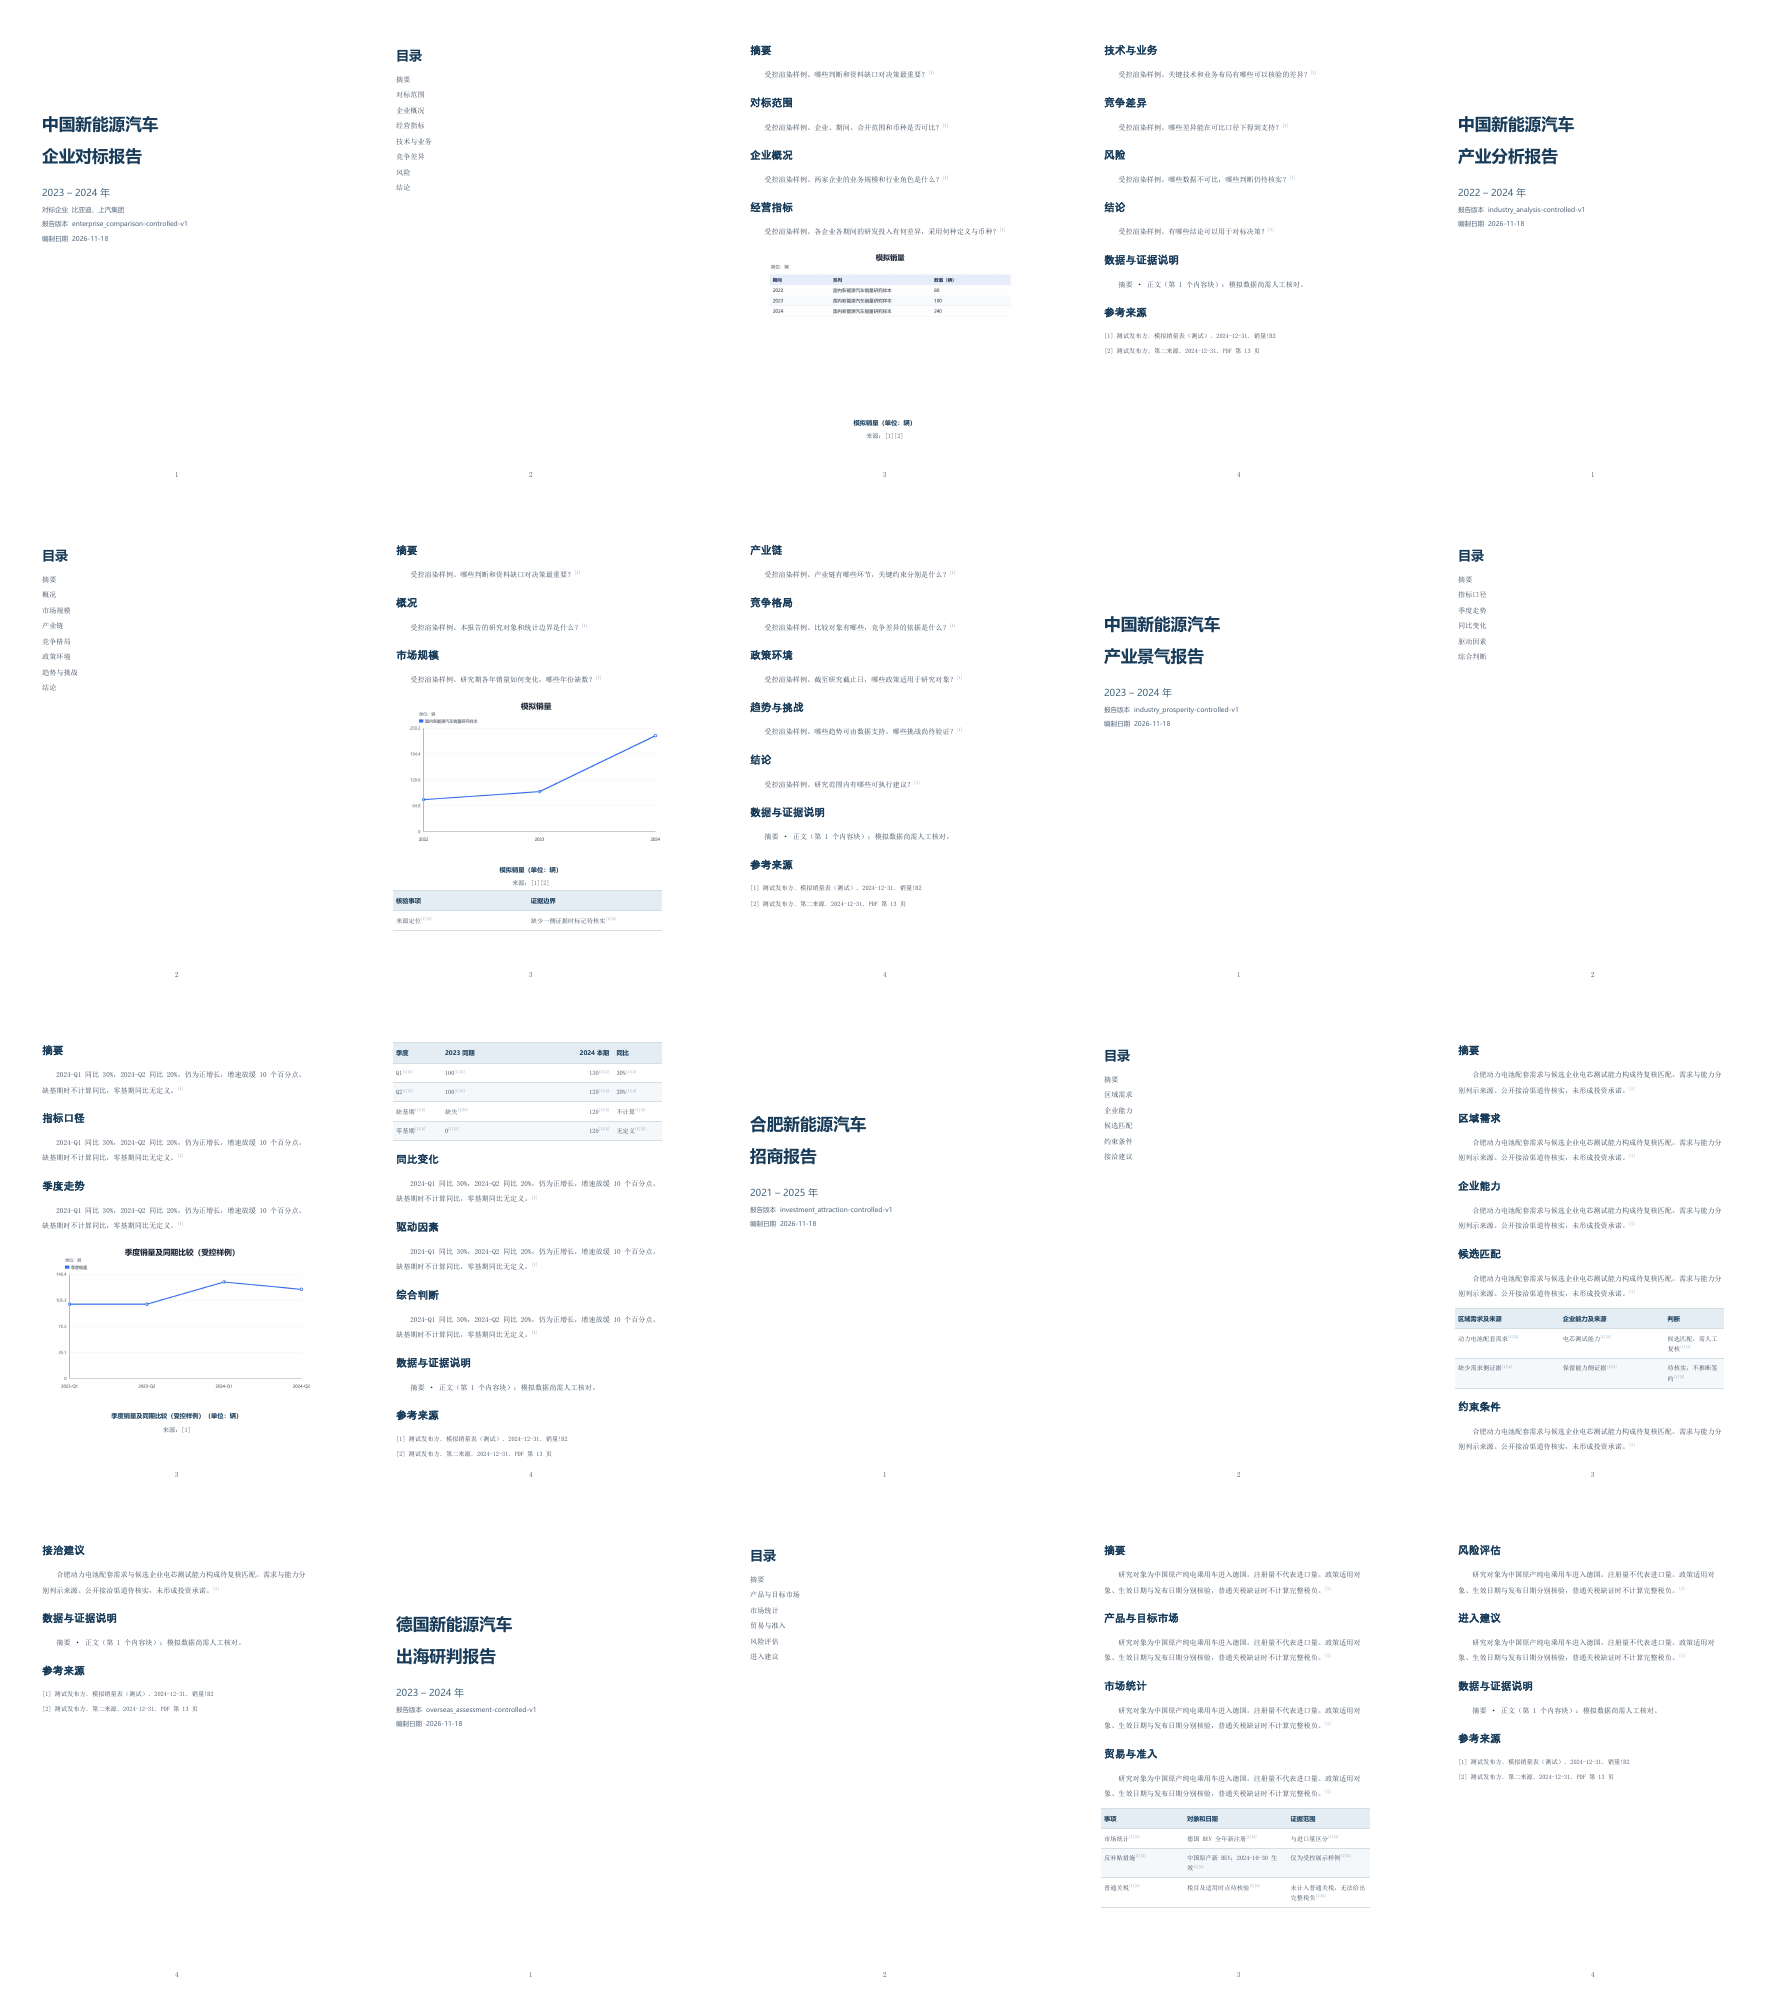
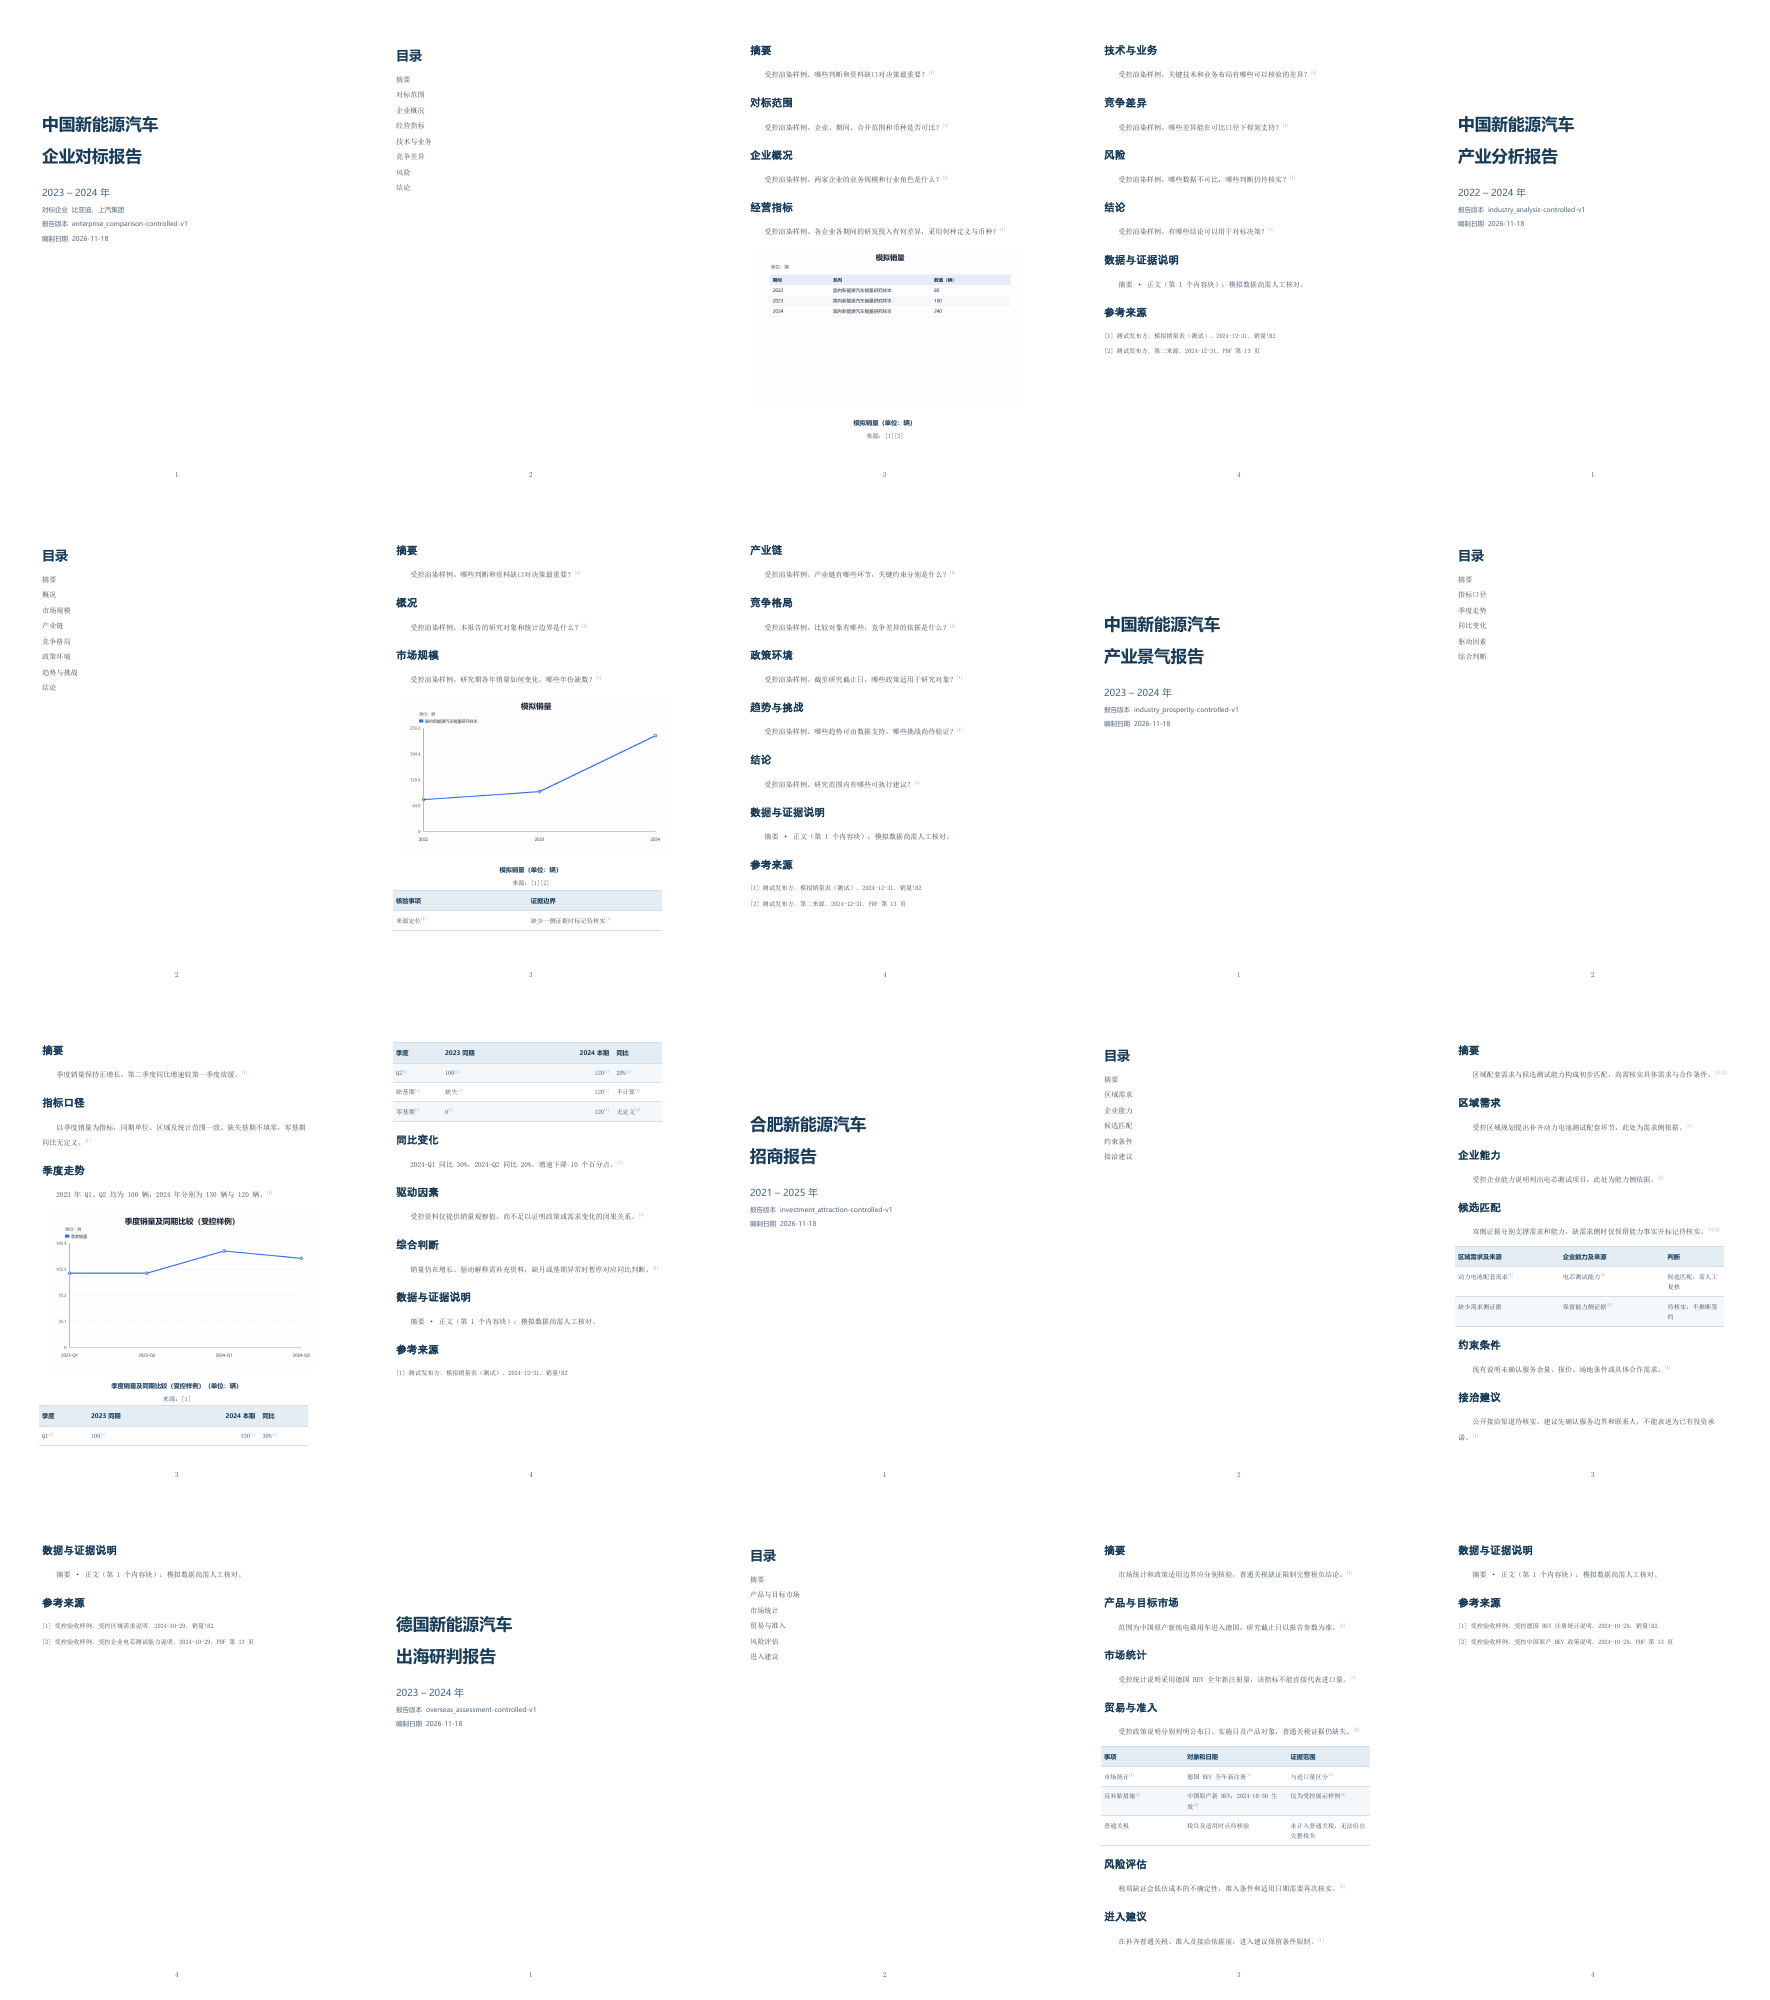
fix(templates): associate controlled evidence by role and test missing demand

diff --git a/backend/tests/integration/verify_templates.py b/backend/tests/integration/verify_templates.py
@@ -10,6 +10,7 @@ from backend.app.export.service import ExportService
 from backend.app.export.pdf import PdfConverter
 from backend.app.quality.render import render_chart_png
 from backend.tests.unit.test_export_evidence import snapshot
+from .specialized_content import TEXT, prepare_sources
 
 def verify(executable, root):
     root.mkdir(parents=True, exist_ok=True)
@@ -21,6 +22,7 @@ def verify(executable, root):
         spec, _ = catalog.validate_request(payload)
         doc = snapshot()
         doc.spec = spec
+        prepare_sources(doc, template.report_type)
         doc.version_id = template.report_type+"-controlled-v1"
         from backend.app.generation.outline import plan_outline
         doc.outline = plan_outline(spec, template)
@@ -45,15 +47,10 @@ def verify(executable, root):
 
         for task in template.sections:
             text = "受控渲染样例。"+task.research_questions[0]
-            if template.report_type=="industry_prosperity":
-                text="2024-Q1 同比 30%，2024-Q2 同比 20%，仍为正增长，增速放缓 10 个百分点。缺基期时不计算同比，零基期同比无定义。"
-            elif template.report_type=="investment_attraction":
-                text="合肥动力电池配套需求与候选企业电芯测试能力构成待复核匹配。需求与能力分别列示来源。公开接洽渠道待核实，未形成投资承诺。"
-            elif template.report_type=="overseas_assessment":
-                text="研究对象为中国原产纯电乘用车进入德国。注册量不代表进口量。政策适用对象、生效日期与发布日期分别核验，普通关税缺证时不计算完整税负。"
+            text=TEXT.get(template.report_type,{}).get(task.section_key,text)
 
             blocks = [m.Paragraph(type="paragraph", block_id=task.chapter_id+"-text",
-                text=text, evidence_ids=["ev1"], metric_ids=[])]
+                text=text, evidence_ids=(["ev2"] if template.report_type=="investment_attraction" and task.section_key=="capability" else ["ev1","ev2"] if template.report_type=="investment_attraction" and task.section_key in ("summary","matching") else ["ev2"] if template.report_type=="overseas_assessment" and task.section_key=="policy" else ["ev1"]), metric_ids=[])]
             if chart_task and task.chapter_id == chart_task.chapter_id:
                 chart.chapter_id = task.chapter_id
                 chart.block_id = task.chapter_id+"-chart"
@@ -78,7 +75,7 @@ def verify(executable, root):
             table_sections={"industry_prosperity":"quarterly","investment_attraction":"matching","overseas_assessment":"policy"}
             if task.section_key==table_sections.get(template.report_type,"market"):
                 blocks.append(m.Table(type="table", block_id=task.chapter_id+"-table",
-                    columns=table_columns, rows=[[m.Cell(text=value,evidence_ids=["ev1","ev2"],metric_ids=[]) for value in row] for row in table_rows]))
+                    columns=table_columns, rows=[[m.Cell(text=value,evidence_ids=(["ev1"] if col==0 and ri==0 else ["ev2"] if col==1 else []) if template.report_type=="investment_attraction" else ["ev2"] if template.report_type=="overseas_assessment" and ri==1 else [] if template.report_type=="overseas_assessment" and ri==2 else ["ev1"],metric_ids=[]) for col,value in enumerate(row)] for ri,row in enumerate(table_rows)]))
             doc.chapters.append(prototype.model_copy(update=dict(chapter_id=task.chapter_id,title=task.title,
                 blocks=blocks,chart_requests=[],missing_evidence=[]),deep=True))
         doc.quality.issues[0].location = m.Location(chapter_id=template.sections[0].chapter_id,
@@ -91,6 +88,13 @@ def verify(executable, root):
             if format=="docx":
                 rendered=Document(path)
                 text=" ".join(p.text for p in rendered.paragraphs)
+                text+=" ".join(cell.text for table in rendered.tables for row in table.rows for cell in row.cells)
+                if template.report_type=="investment_attraction":
+                    cells=rendered.tables[0].rows[1].cells
+                    assert "[1]" in cells[0].text and "[2]" not in cells[0].text
+                    assert "[2]" in cells[1].text and "[1]" not in cells[1].text
+                if template.report_type in TEXT:
+                    assert all(TEXT[template.report_type][task.section_key] in text for task in template.sections)
                 assert len(rendered.inline_shapes)==len(doc.charts)
             else:
                 reader=PdfReader(path)
@@ -99,6 +103,18 @@ def verify(executable, root):
                 assert title in text, (template.report_type,title)
             assert doc.version_id in text and "参考来源" in text and "模拟数据尚需人工核对" in text
             results.append(dict(type=template.report_type,format=format,**artifact.model_dump()))
+        if template.report_type=="investment_attraction":
+            negative=doc.model_copy(deep=True)
+            negative.version_id="investment-missing-demand"
+            negative.evidences=[e for e in negative.evidences if e.evidence_id=="ev2"]
+            for chapter in negative.chapters:
+                chapter.blocks=[m.Paragraph(type="paragraph",block_id=chapter.chapter_id+"-gap",
+                    text="需求侧证据缺失，候选匹配待核实，不推断签约。",evidence_ids=["ev2"],metric_ids=[])]
+            artifact=service.render_report(negative,"docx")
+            rendered=Document(root/artifact.storage_key)
+            text=" ".join(p.text for p in rendered.paragraphs)
+            assert "待核实" in text and "受控企业电芯测试能力说明" in text
+            assert "受控区域需求说明" not in text
     assert len(results)==10
     (root/"result.json").write_text(json.dumps(results,ensure_ascii=False,indent=2),encoding="utf8")
 

diff --git a/backend/tests/integration/specialized_content.py b/backend/tests/integration/specialized_content.py
@@ -1,0 +1,42 @@
+"""Controlled source roles and section-specific report content."""
+TEXT = {
+ "industry_prosperity": {
+  "summary":"季度销量保持正增长，第二季度同比增速较第一季度放缓。",
+  "scope":"以季度销量为指标，同期单位、区域及统计范围一致。缺失基期不填零，零基期同比无定义。",
+  "quarterly":"2023 年 Q1、Q2 均为 100 辆，2024 年分别为 130 辆与 120 辆。",
+  "change":"2024-Q1 同比 30%，2024-Q2 同比 20%，增速下降 10 个百分点。",
+  "drivers":"受控资料仅提供销量观察值，尚不足以证明政策或需求变化的因果关系。",
+  "conclusion":"销量仍在增长。驱动解释需补充资料，缺月或基期异常时暂停对应同比判断。"},
+ "investment_attraction": {
+  "summary":"区域配套需求与候选测试能力构成初步匹配，尚需核实具体需求与合作条件。",
+  "demand":"受控区域规划提出补齐动力电池测试配套环节，此处为需求侧依据。",
+  "capability":"受控企业能力说明列出电芯测试项目，此处为能力侧依据。",
+  "matching":"双侧证据分别支撑需求和能力，缺需求侧时仅保留能力事实并标记待核实。",
+  "constraints":"现有说明未确认服务余量、报价、场地条件或具体合作需求。",
+  "contact":"公开接洽渠道待核实。建议先确认服务边界和联系人，不能表述为已有投资承诺。"},
+ "overseas_assessment": {
+  "summary":"市场统计和政策适用边界应分别核验，普通关税缺证限制完整税负结论。",
+  "scope":"范围为中国原产新纯电乘用车进入德国，研究截止日以报告参数为准。",
+  "market":"受控统计说明采用德国 BEV 全年新注册量，该指标不能直接代表进口量。",
+  "policy":"受控政策说明分别列明公布日、实施日及产品对象，普通关税证据仍缺失。",
+  "risk":"税项缺证会低估成本的不确定性，准入条件和适用日期需要再次核实。",
+  "entry":"在补齐普通关税、准入及接洽依据前，进入建议保留条件限制。"}
+}
+
+def prepare_sources(doc, kind):
+    if kind=="investment_attraction":
+        titles=["受控区域需求说明","受控企业电芯测试能力说明"]
+        excerpts=["区域规划提出补齐动力电池测试配套环节。","企业具备电芯测试项目能力，尚未披露具体合作意向。"]
+    elif kind=="overseas_assessment":
+        titles=["受控德国 BEV 注册统计说明","受控中国原产 BEV 政策说明"]
+        excerpts=["德国 BEV 全年新注册量，区别于进口量。","2024-10-29 公布，2024-10-30 生效，适用于中国原产新 BEV。"]
+    else:
+        return
+    doc.metrics=[]
+    doc.facts=[]
+    for evidence,title,excerpt in zip(doc.evidences,titles,excerpts):
+        evidence.title=title
+        evidence.publisher="受控验收样例"
+        evidence.excerpt=excerpt
+        evidence.source_url=None
+        evidence.published_at=__import__("datetime").date(2024,10,29)

diff --git a/doc/testing/K5-acceptance/README.md b/doc/testing/K5-acceptance/README.md
@@ -1,3 +1,5 @@
 # K5 controlled regression
 
 119 unit and 6 contract tests pass. The outline binds requested prosperity indicators without changing cached templates. Five controlled snapshots export to ten Word/PDF artifacts. Prosperity uses quarterly values 100/100 and 130/120, illustrating 30% to 20% growth and missing/zero baselines. Investment and overseas snapshots display evidence boundaries in specialized tables. All PDF pages are rendered in all-pages.png. Values and conclusions are controlled fixtures and require separate real-data/model acceptance. Reproduce using python -m backend.tests.integration.verify_templates <soffice.com> <output-root>.
+
+Source-role rework uses controlled regional demand, enterprise capability, German BEV statistics and dated policy descriptions. DOCX assertions inspect table cells and require separate demand/capability citations. A separate export removes demand evidence entirely and checks that its source disappears while the uncertainty remains. Section paragraphs are distinct. 119 unit and 6 contract tests pass; all ten normal exports and the missing-demand DOCX passed.
